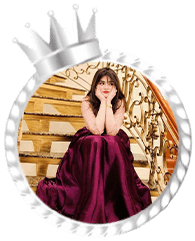
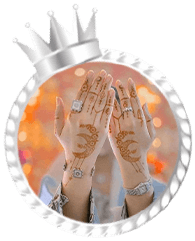
profilimg has been updated

diff --git a/index.html b/index.html
@@ -17,7 +17,7 @@
 
   <div class="col-two">
     <img src="img/Gold-Cup.png" alt="" class="cup">
-    <img src="img/Silver-Cup.png" alt="" class="cup">
+    <!-- <img src="img/Silver-Cup.png" alt="" class="cup"> -->
   </div>
 
   <img src="img/Bronze-cup.png" alt="" class="cup1">
